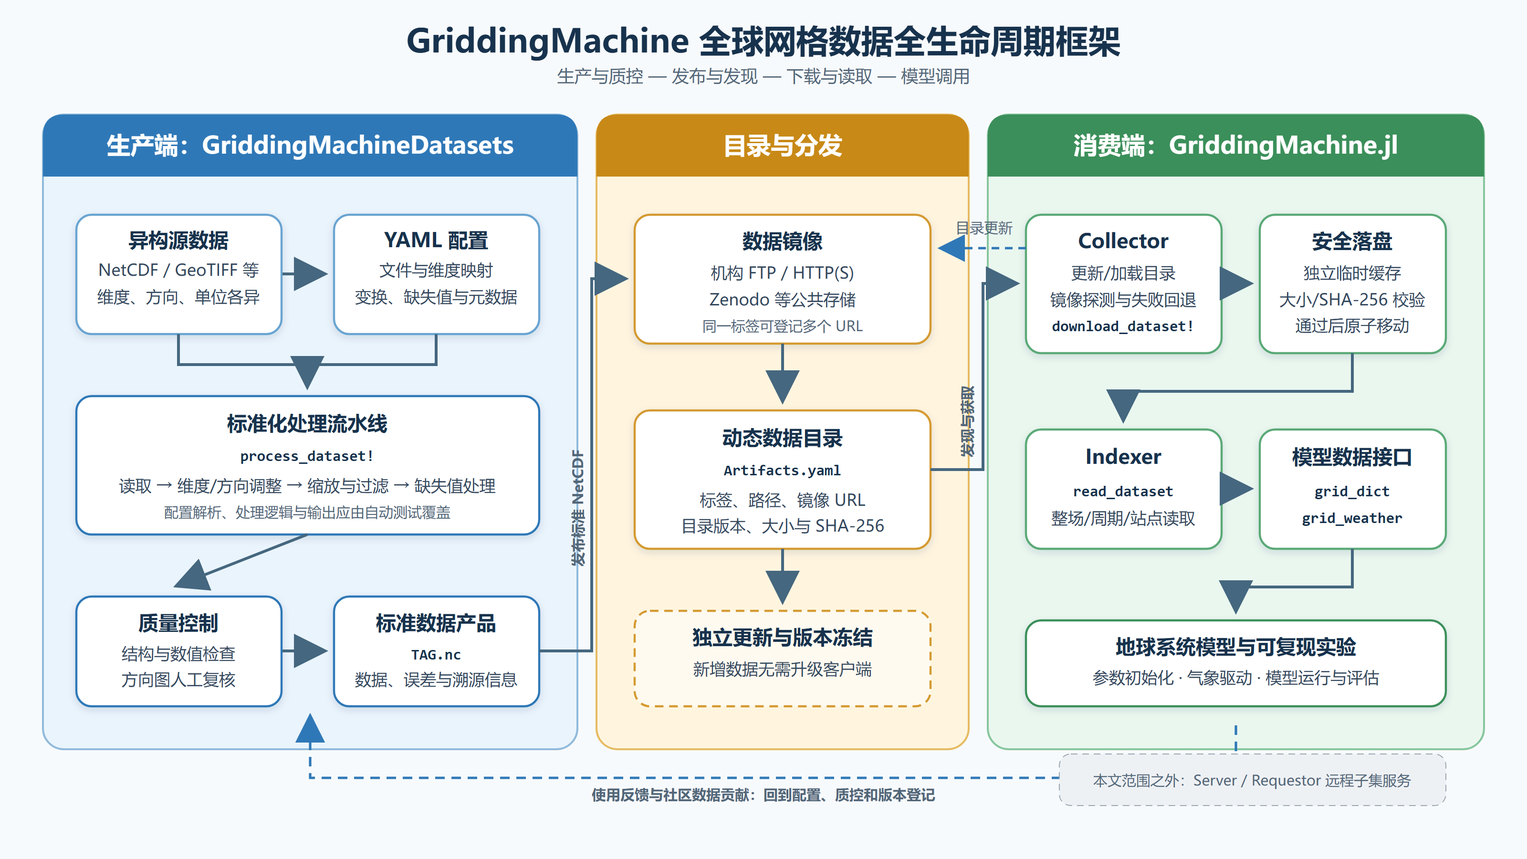
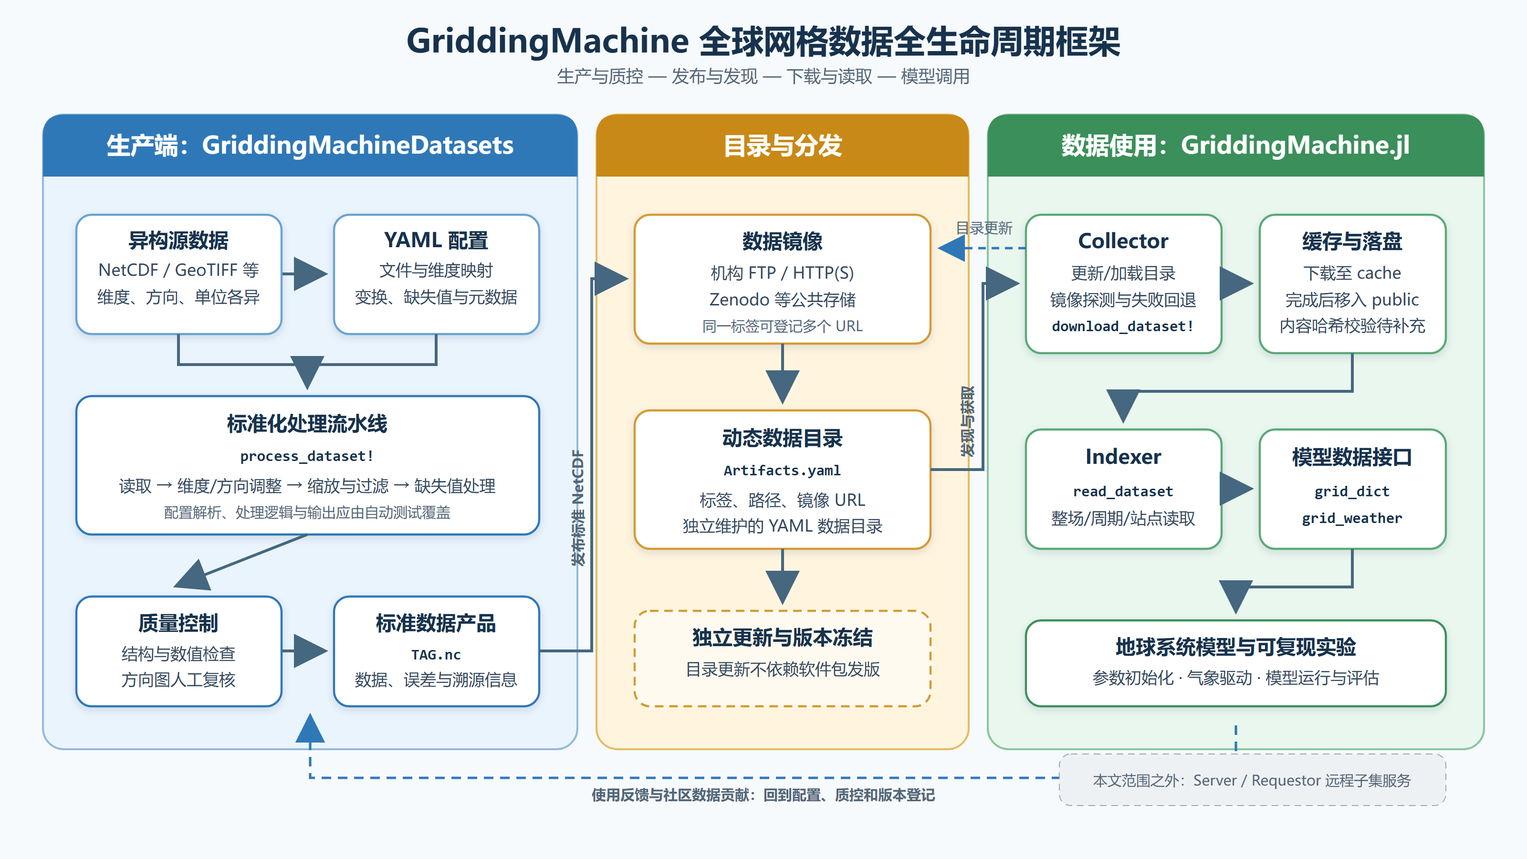
按当前代码重写质量检查与目录登记

diff --git a/论文/GriddingMachine论文初稿_v0.1.md b/论文/GriddingMachine论文初稿_v0.1.md
@@ -8,7 +8,7 @@
 
 ## 摘要
 
-地球系统模型的参数化、初始化、驱动和评估依赖来源广泛、格式各异的全球网格数据，但数据发现、格式转换、质量控制、稳定获取和模型适配仍需要大量重复劳动。本文在 2022 年发布的 GriddingMachine 基础上，设计面向全球网格数据的生产—质控—发布—发现—下载—读取—模型调用全生命周期框架。新版框架采用 YAML 描述数据处理与目录信息，将标准化 NetCDF 作为直接分发单元，并设计动态目录、多镜像回退、安全缓存和内容完整性验证机制；同时通过统一读取接口以及模型参数字典和气象驱动接口，衔接数据产品与地球系统模型。本文将利用具有不同维度顺序、坐标方向、数值缩放和缺失值特征的合成 NetCDF，以及多操作系统、多网络环境和故障注入实验，对数据转换正确性、传输效率、下载可靠性和模型输入准备过程进行验证。【定量结果待实验完成后填写。】研究旨在将 GriddingMachine 从数据下载工具扩展为可复现的全球网格数据生命周期基础设施，为地球系统数据的标准化共享、持续维护和模型复用提供统一路径。
+地球系统模型的参数化、初始化、驱动和评估依赖来源广泛、格式各异的全球网格数据，但数据发现、格式转换、质量控制、稳定获取和模型适配仍需要大量重复劳动。本文在 2022 年发布的 GriddingMachine 基础上，设计面向全球网格数据的生产—质控—发布—发现—下载—读取—模型调用全生命周期框架。新版框架采用 YAML 描述数据处理与目录信息，将标准化 NetCDF 作为直接分发单元，并提供动态目录、多镜像回退和缓存落盘机制；同时通过统一读取接口以及模型参数字典和气象驱动接口，衔接数据产品与地球系统模型。本文将利用具有不同维度顺序、坐标方向、数值缩放和缺失值特征的合成 NetCDF，以及多操作系统、多网络环境和故障注入实验，对数据转换正确性、传输效率、下载可靠性和模型输入准备过程进行验证。【定量结果待实验完成后填写。】研究旨在将 GriddingMachine 从数据下载工具扩展为可复现的全球网格数据生命周期基础设施，为地球系统数据的标准化共享、持续维护和模型复用提供统一路径。
 
 **关键词：** 地球系统模型；全球网格数据；数据标准化；NetCDF；科学数据基础设施；可复现研究
 
@@ -20,7 +20,7 @@
 
 王玉杰等[4]于 2022 年提出 GriddingMachine，将常用于陆面和地球系统模拟的全球数据处理为具有统一空间和变量约定的 NetCDF 文件，并通过标签、`Artifacts.toml` 和 Julia artifact 机制实现数据管理和自动下载，同时提供 Julia、Matlab、Octave、Python 和 R 接口。该版本降低了全球网格数据发现和调用的门槛，并明确了经纬度方向、空间分辨率、变量名称、缺失值、单位、引用信息和处理日志等数据规范。但是，旧版采用 `tar.gz` 作为分发单元，数据目录随软件发布更新，数据镜像和贡献流程的扩展能力有限；当数据存储位置、网络环境和软件接口持续变化时，数据生产、发布、更新和模型使用之间仍缺少统一且可验证的闭环。
 
-针对上述问题，本研究将 GriddingMachine 的关注范围由“标准化数据集合与下载工具”扩展为全球网格数据全生命周期框架。在生产端，使用 YAML 描述原始文件、坐标与数值处理、缺失值和输出信息，并在论文实验版本中补充显式维度映射，形成可测试的数据标准化与质量控制流程；在分发端，以可直接读取的 NetCDF 文件替代二次压缩制品，并通过独立更新的数据目录组织多个镜像、缓存文件和完整性信息；在消费端，统一数据下载与读取接口，并通过 `grid_dict` 和 `grid_weather` 将多个数据标签组织为模型参数和气象驱动。远程子集服务 Server/Requestor 不属于本文验证范围。
+针对上述问题，本研究将 GriddingMachine 的关注范围由“标准化数据集合与下载工具”扩展为全球网格数据全生命周期框架。在生产端，使用 YAML 描述原始文件、坐标与数值处理、缺失值和输出信息，并在论文实验版本中补充显式维度映射，形成可测试的数据标准化与质量控制流程；在分发端，以可直接读取的 NetCDF 文件替代二次压缩制品，并通过独立更新的数据目录组织多个镜像和缓存文件；在数据使用端，统一数据下载与读取接口，并通过 `grid_dict` 和 `grid_weather` 将多个数据标签组织为模型参数和气象驱动。远程子集服务 Server/Requestor 不属于本文验证范围。
 
 本文拟回答以下四个问题：不同维度和数值特征的原始 NetCDF 能否被生产流程正确标准化；取消二次打包能否改善端到端的数据获取效率；动态目录、多镜像回退、缓存和哈希校验能否提高跨平台、跨网络条件下的可靠性；统一读取与模型接口能否减少模型输入准备的人工步骤。为此，本文将结合合成数据矩阵、真实数据案例、压缩对比、多操作系统与多网络测试、下载故障注入以及模型端到端案例进行验证。本文其余部分首先介绍系统架构、数据标准和关键实现，随后说明验证方案并报告结果，最后讨论该框架对可复现地球系统数据使用的意义、适用边界和未来发展方向。
 
@@ -28,19 +28,19 @@
 
 ### 2.1 总体架构与数据生命周期
 
-GriddingMachine 新版由数据生产、目录与分发、数据消费三个相互衔接的部分组成（图1）。数据生产端由 `GriddingMachineDatasets` 承担，负责把来源、结构和数值约定不同的地学数据转换为满足 GriddingMachine 规范的 NetCDF 产品；目录与分发部分负责保存标准数据产品、维护标签与镜像地址之间的映射，并使数据目录能够独立于客户端软件更新；数据消费端由 `GriddingMachine.jl` 承担，负责数据发现、下载、落盘、读取以及向地球系统模型提供参数和气象驱动。三部分共同形成“生产—质控—发布—发现—下载—读取—模型调用”的数据生命周期。
+GriddingMachine 新版由数据生产、目录与分发、数据使用三个相互衔接的部分组成（图1）。数据生产端由 `GriddingMachineDatasets` 承担，负责把来源、结构和数值约定不同的地学数据转换为满足 GriddingMachine 规范的 NetCDF 产品；目录与分发部分负责保存标准数据产品、维护标签与镜像地址之间的映射，并使数据目录能够独立于 `GriddingMachine.jl` 软件包版本更新；数据使用端由 `GriddingMachine.jl` 承担，负责数据发现、下载、落盘、读取以及向地球系统模型提供参数和气象驱动。三部分共同形成“生产—质控—发布—发现—下载—读取—模型调用”的数据生命周期。
 
 ![图1 GriddingMachine 全球网格数据全生命周期框架](figures/图1_GriddingMachine总体架构.svg)
 
-**图1 GriddingMachine 全球网格数据全生命周期框架** 生产端利用 YAML 配置驱动数据标准化和质量控制，目录与分发层维护标准 NetCDF 产品及其镜像，消费端完成目录加载、数据下载、完整性检查、统一读取和模型数据组织。虚线表示独立更新、社区反馈或需要在论文实验版本中完成验证的机制；Server/Requestor 远程子集服务不属于本文验证范围。
+**图1 GriddingMachine 全球网格数据全生命周期框架** 生产端利用 YAML 配置驱动数据标准化和质量控制，目录与分发层维护标准 NetCDF 产品及其镜像，数据使用端完成目录加载、数据下载、缓存落盘、统一读取和模型数据组织。虚线表示独立更新、社区反馈或需要在论文实验版本中完成验证的机制；Server/Requestor 远程子集服务不属于本文验证范围。
 
-**Fig. 1 Lifecycle framework of global gridded data in GriddingMachine.** The production component uses YAML configurations to drive data standardization and quality control. The catalog and distribution component maintains standardized NetCDF products and their mirrors. The consumption component loads the catalog, downloads and verifies files, provides unified data access, and organizes model parameters and meteorological forcing. Dashed lines indicate independent updates, community feedback, or mechanisms to be validated in the experimental release. The Server/Requestor service for remote data subsetting is outside the scope of this study.
+**Fig. 1 Lifecycle framework of global gridded data in GriddingMachine.** The production component uses YAML configurations to drive data standardization and quality control. The catalog and distribution component maintains standardized NetCDF products and their mirrors. The data-use component loads the catalog, downloads and stores files through a cache, provides unified data access, and organizes model parameters and meteorological forcing. Dashed lines indicate independent updates, community feedback, or mechanisms to be validated in the experimental release. The Server/Requestor service for remote data subsetting is outside the scope of this study.
 
 在生产端，原始数据及其处理规则分别作为数据输入和 YAML 配置输入。当前 YAML 描述原始文件组合、源变量、经纬度方向、数值变换、有效范围、缺失值处理及输出元数据；论文实验版本将进一步加入显式维度映射。`process_dataset!` 根据配置枚举需要处理的数据文件，依次调用读取、验证和保存过程，最终生成以统一标签命名的 `TAG.nc`。生产过程中的质量控制包括可自动断言的结构与数值检查，以及用于补充确认空间方向的图形复核。自动检查必须成为合成数据测试矩阵的一部分，人工复核不能替代维度、坐标、数值范围和缺失值处理的程序化验证。
 
-通过质量控制的数据产品被发布到机构 FTP、HTTP(S) 服务或 Zenodo 等公共存储位置。一个数据标签可以对应多个内容一致的镜像地址，并在 `Artifacts.yaml` 中登记标签、相对路径和 URL。为使数据更新不依赖客户端包发布，目录文件与 `GriddingMachine.jl` 软件版本分离维护。论文实验版本还要求目录记录文件大小、SHA-256 和目录版本：只有指向相同内容的镜像才能登记在同一标签下，任何目录更新都应在结构校验后原子替换并保留可追溯版本。该完整性机制是本文可靠性实验的前置条件，当前初稿不将其表述为已经验证的结果。
+通过质量控制的数据产品被发布到机构 FTP、HTTP(S) 服务或 Zenodo 等公共存储位置。一个数据标签可以对应多个镜像地址，并在 `Artifacts.yaml` 中登记标签、相对路径和 URL。目录文件与 `GriddingMachine.jl` 软件包分开维护，使数据列表可以在不发布新软件版本的情况下更新。当前目录尚未记录文件大小和 SHA-256，下载过程也未执行内容哈希校验，因此本文不把现有实现表述为已经保证镜像内容一致或文件完整性。
 
-在消费端，Collector 负责初始化、更新和加载目录，并由 `download_dataset!` 完成镜像选择、失败回退和文件下载。下载文件首先进入独立临时缓存；目标实验版本将在大小和 SHA-256 均通过校验后，将文件原子移动到正式数据目录。Indexer 随后通过 `read_dataset` 提供整场、指定周期及站点数据读取，并通过 `grid_dict` 和 `grid_weather` 将多个标签组织为模型参数集合和气象驱动。由此，数据产品能够沿固定且可追溯的接口进入模型初始化、运行与评估过程。
+在数据使用端，Collector 负责初始化、更新和加载目录，并由 `download_dataset!` 完成镜像排序、失败回退和文件下载。当前代码先把文件下载到 `cache` 目录，在某个下载调用未抛出异常后退出镜像循环，再把缓存文件移动到 `public` 数据目录；这一过程尚未比较文件大小或内容哈希。Indexer 随后通过 `read_dataset` 提供整场、指定周期及站点数据读取，并通过 `grid_dict` 和 `grid_weather` 将多个标签组织为模型参数集合和气象驱动。由此，数据产品沿统一接口进入模型初始化、运行与评估过程。
 
 该生命周期不是单向发布链。模型使用过程中发现的数据错误、元数据不足和新增数据需求可以反馈至 YAML 配置、质量控制和版本登记环节，形成持续维护机制。本文评价的重点是上述本地数据生产、可靠分发、统一读取和模型接口闭环；考虑到网络服务部署与端口安全涉及不同的技术问题，Server/Requestor 不纳入本文核心架构与实验评价。
 
@@ -81,27 +81,27 @@ YAML 将数据源差异与通用处理代码分离。当前配置由四类顶层
 
 论文实验版本的自动质量控制将在保存前检查维度、坐标、变量、数值范围和缺失值规则。当前已有的空间方向图可用于人工发现异常，但只作为补充审核；流水线的正确性应由具有已知预期输出的合成 NetCDF 自动断言。验证通过后生成 `data`，存在不确定性时追加同形的 `std`，并按 `TAG_(PREFIX_)NX_MT_(YYYY_)VV(_REVISION)` 生成唯一文件名。若目标文件已存在，流水线不能仅凭文件名跳过，而应比较配置哈希、软件版本和文件校验结果，以区分可安全复用的输出与需要重建的过期或不完整文件。
 
-### 2.3 数据质量控制、登记与发布
+### 2.3 数据质量检查与目录登记
 
-#### 2.3.1 分层质量控制
+#### 2.3.1 处理过程中的方向验证
 
-数据质量控制位于标准化处理与公开发布之间，其目标不仅是判断文件能否打开，还要确认数组结构、空间语义、数值语义和溯源信息均符合表2。本文将检查分为四层。第一层为配置检查，在读取大文件前验证 YAML schema、字段类型、数组长度、互斥关系和标签格式。第二层为文件结构检查，确认 NetCDF 包含 `lon`、`lat`、可选 `ind` 维度及相应坐标变量，并检查 `data` 与可选 `std` 的维度和形状。第三层为坐标与数值检查，验证经纬度范围、方向、间距、数据有效范围、缺失值掩膜和 gap-filling 结果。第四层为溯源检查，确认来源、引用、许可、单位、处理历史、生产代码版本和配置哈希完整。
+当前生产流水线在 `read_input` 完成经纬度翻转、经度范围调整、线性缩放、有效范围过滤和缺失值处理后，调用 `verify_data!` 对待保存数组进行方向检查。该函数先将数组写入固定的 NetCDF 缓存文件，再调用 Python 脚本生成全球分布图；操作者查看图件后在终端输入 `Y/y` 表示通过，其他输入则终止当前数据的保存。YAML 中的 `VERIFY_ONCE` 用于控制同一配置组合是否只在第一次处理时进行人工确认，通过状态临时写入配置字典的 `VERIFIED` 字段。
 
-当前基线中的 `verify_processed_data!` 已实现部分结构和数值检查，包括必要维度与变量、`data` 各维长度、有效范围以及特定分辨率下的陆地缺失值；但尚未系统检查坐标值、`std` 一致性、单位、引用、许可和配置版本。论文实验版本将把上述检查改为无交互、可重复的自动测试。空间方向图仍用于审核人员快速识别全球图像倒置或平移错误，但审核结果需要记录时间和审核人，且不能替代数组级金标准断言。
+这一过程主要用于识别南北颠倒、东西颠倒或经度平移错误，属于交互式人工检查。当前代码使用固定缓存文件名、默认调用 `python3`，审核结论也没有写入最终 NetCDF 或独立记录，因此不适合直接作为无人值守的批处理证据。本文对当前功能的表述限定为“提供空间方向人工验证步骤”，不称其为完整的自动质量控制系统。
 
-#### 2.3.2 标签、镜像与完整性登记
+#### 2.3.2 标准文件检查
 
-质量控制通过后，数据产品按唯一标签命名并进入待发布区，而不是直接写入正式目录。发布程序首先计算文件字节数和 SHA-256，随后将同一文件上传至至少一个公开镜像；用于论文可靠性实验的受控数据子集同时配置机构镜像和公共镜像。每个远端对象上传完成后，需要通过实际协议重新检查对象存在性、字节数和内容哈希。只有内容一致的 URL 才能登记在同一标签下，服务器能够响应 ICMP ping 既不是发布成功的充分条件，也不是判断 HTTP/FTP 文件可用的必要条件。
+对于已经生成的 NetCDF 文件，`verify_processed_data!` 提供独立的结构和数值检查。该函数首先确认文件存在，并要求覆盖类型为全球陆地和海洋（`both`）或陆地（`land`）。随后检查 `lon`、`lat` 维度和坐标变量、主变量 `data`，当文件具有三个及以上维度时进一步要求 `ind`；同时比较 `data` 各维长度与 `lon`、`lat` 和 `ind` 长度是否一致。数值检查读取完整的 `data` 数组，计算忽略 `NaN` 后的最小值和最大值，并判断其是否位于给定范围内。
 
-`Artifacts.yaml` 的单个条目至少包含标签、相对路径、镜像 URL、`SIZE_BYTES` 和 `SHA256`，目录本身还应包含 schema 版本、目录版本和生成时间。标签冲突、镜像内容不一致、缺少公共 URL 或任何自动质控失败时，发布事务立即终止，原有正式目录保持不变。当前 `wyujie` 基线的目录含1 179个标签和1 251个 URL，其中72个标签具有多个 URL，但尚无哈希字段；因此本文后续关于多镜像可靠性的实验只评价完成完整性迁移并具有受控双镜像的数据子集，不把全库表述为已经实现镜像冗余。
+缺失值检查取决于覆盖类型。`both` 要求整个数组不存在 `NaN`；`land` 在经度长度为360、720或1 440时读取并重采样 `LM_4X_1Y_V1` 陆地掩膜，逐层检查陆地区域是否含 `NaN`。其他空间分辨率下，代码给出警告并跳过陆地缺失值检查。当前函数尚未检查经纬度坐标的实际取值和单调方向，也未检查 `std`、单位、引用信息和处理日志；这些边界将在验证实验中明确报告。
 
-#### 2.3.3 事务式发布与动态目录更新
+#### 2.3.3 标签生成与数据目录登记
 
-正式发布被设计为一个有明确提交点的事务：本地质量控制、生成完整性信息、上传镜像、远端复核、构建候选目录、目录 schema 校验、客户端冒烟测试和目录发布依次执行。候选 `Artifacts.yaml` 在临时位置生成，验证通过后才替换正式版本，同时保存上一版本和发布记录以支持回滚。发布记录关联数据标签、源 YAML、配置哈希、生产端 commit、文件哈希、镜像校验结果、审核人和测试平台，从而使论文中的每个数据案例能够追溯到不可变输入与代码版本。
+数据文件名由 `griddingmachine_tag` 生成，基本形式为 `TAG_(PREFIX_)NX_MT_(YYYY_)VV(_REVISION)`。其中 `NX` 表示空间分辨率，`MT` 表示时间分辨率，`YYYY` 和 `REVISION` 为可选部分。生成输出路径时，代码读取当前 `Artifacts.yaml`，如果拟生成标签已经存在则触发断言，从而避免直接产生同名数据文件。
 
-客户端通过稳定的 Zenodo API、概念 DOI 或显式版本端点发现目录，而不依赖网页 HTML 文本结构。新目录先下载到临时文件，完成 YAML 解析、schema、版本和完整性检查后原子替换本地目录；任何阶段失败时继续使用上一可用版本。目录更新与 `GriddingMachine.jl` 软件发布解耦，因此新增或修订数据不要求用户升级客户端，但客户端必须拒绝高于其支持范围的 schema 版本。
+当前的数据发布与登记尚未组成全自动流程。标准 NetCDF 需要先上传至 Zenodo，机构 FTP 副本也需要单独准备；现有 `update_yaml_library!` 脚本尝试从 Zenodo 记录网页提取 `.nc` 文件链接，根据文件名生成标签，并向 `Artifacts.yaml` 条目写入 `PATH` 以及 Zenodo、FTP URL。已有标签会追加新的 URL，新标签则创建目录项，最后对目录排序并写回文件。FTP 上传在代码中仍为 TODO，服务器地址、目录路径和 Zenodo 记录号也采用固定值；脚本还存在变量名不一致和模块加载时直接执行的问题。因此，本文将其描述为“辅助生成目录条目的开发脚本”，不称为已经实现的自动发布系统。
 
-当前基线尚未形成上述闭环：上传和目录脚本仍含服务器路径及记录号硬编码，FTP 上传尚未实现，部分网络请求关闭 TLS 校验，URL 检查仅遍历目录前10个标签，客户端目录更新通过解析 Zenodo HTML 并直接覆盖本地文件。这些代码只作为架构原型，不作为论文结果。只有发布门禁、故障回滚和三平台冒烟测试全部通过的冻结版本，才用于第3章的验证实验。
+仓库中的 `verify_urls!` 用于初步检查目录地址。它先对各服务器执行 ping，再通过 FTP 目录查询或 HTTP GET 判断文件是否存在，并将异常地址写入日志。但当前全库函数在检查前10个标签后即停止，HTTP 请求关闭了 TLS 证书校验，而且禁止 ICMP 的可用服务器会被直接视为不可访问。由此，现有代码可以辅助抽查部分 URL，不能证明全部1 179个标签均可访问，也不能证明多个 URL 指向内容相同的文件。当前 `Artifacts.yaml` 仅保存 `PATH` 和 `URL`，尚无文件大小或内容哈希字段。
 
 ### 2.4 动态目录与多镜像分发
 

diff --git a/论文/checklists/数据质控与发布验收清单.md b/论文/checklists/数据质控与发布验收清单.md
@@ -1,6 +1,6 @@
 # GriddingMachine 数据质控与发布验收清单
 
-> 用途：论文实验版本发布前的门禁清单。任何一项标记为“阻塞”的检查未通过时，不得更新正式 `Artifacts.yaml`，也不得将该数据计入论文的已发布数据统计。
+> 用途：后续代码改进和论文实验版本发布前的内部门禁清单，不描述当前代码已经实现的方法。任何一项标记为“阻塞”的检查未通过时，不得更新正式 `Artifacts.yaml`，也不得将该数据计入论文的已发布数据统计。
 
 ## 1. 发布门禁
 
@@ -17,7 +17,7 @@
 | G8 | 镜像上传 | 至少一个公共镜像成功；论文测试集具有两个独立镜像 | 上传日志与远端对象信息 | 阻塞：FTP 上传仍为 TODO |
 | G9 | 远端完整性 | 每个镜像的字节数和 SHA-256 与本地一致 | 远端校验日志 | 阻塞：当前只做有限 URL 可达性检查 |
 | G10 | 目录事务 | 在临时目录中更新、完成 schema 和冲突检查后原子发布 | 目录差异及发布日志 | 阻塞：当前直接覆盖文件 |
-| G11 | 客户端冒烟测试 | 新环境能够更新目录、下载、校验并读取新标签 | Linux/macOS/Windows 日志 | 待建立 |
+| G11 | 软件包冒烟测试 | 新环境中的 `GriddingMachine.jl` 能够更新目录、下载、校验并读取新标签 | Linux/macOS/Windows 日志 | 待建立 |
 | G12 | 可回滚性 | 保存上一目录版本，发布失败可恢复且不影响已有数据 | 故障注入记录 | 待建立 |
 
 ## 2. 单个数据产品发布记录模板
